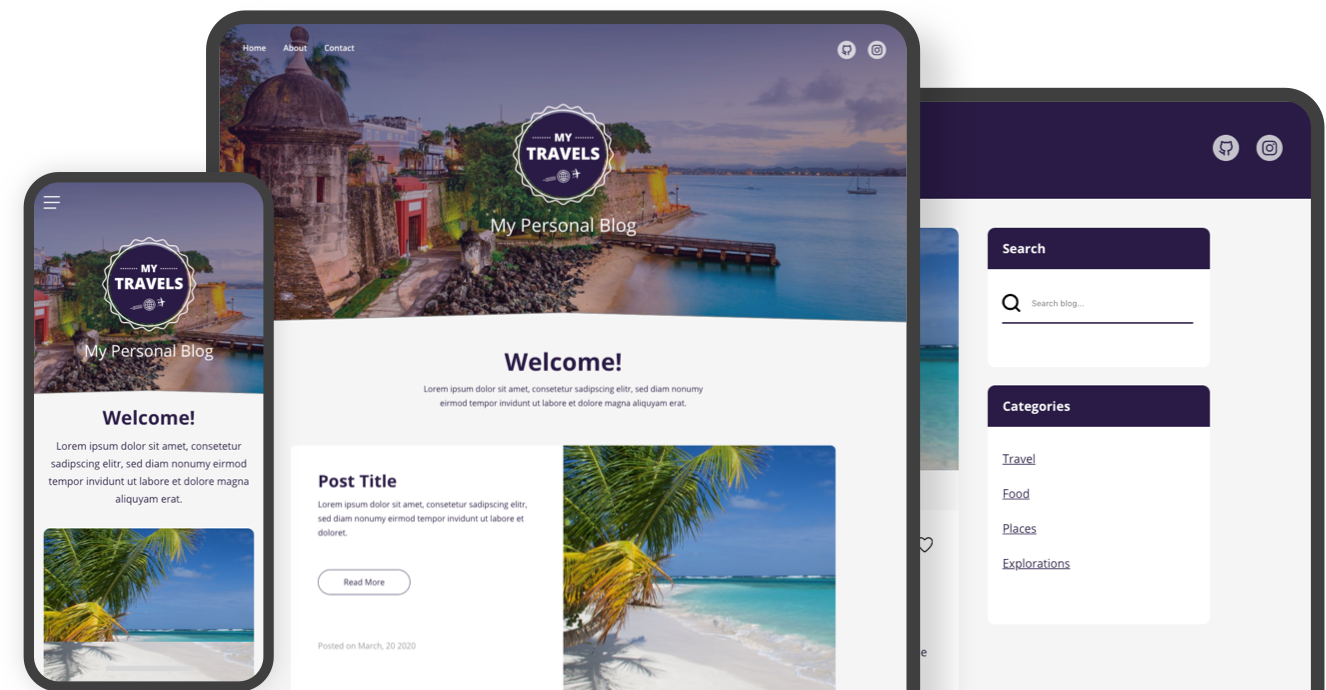
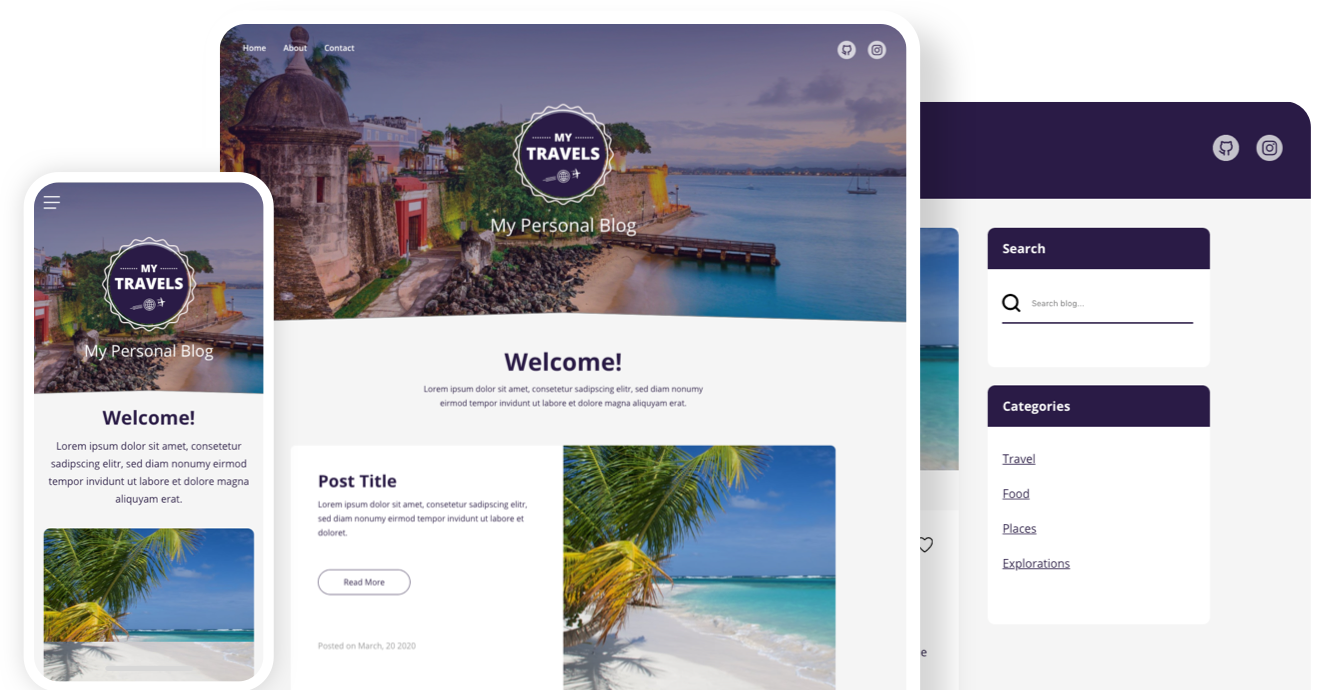
Made minor css updates

Changed region(s): [[0.0, 0.0, 1.0, 1.0]]

diff --git a/src/Pages/Home.js b/src/Pages/Home.js
@@ -4,7 +4,6 @@ import CardRight from '../Components/CardRight';
 import CardLeft from '../Components/CardLeft';
 import Button from '../Components/Button';
 import CardFullWidth from '../Components/CardFullWidth';
-import Footer from '../Components/Footer';
 import Intro from '../Components/Intro';
 import { Link } from 'react-router-dom';
 
@@ -13,12 +12,13 @@ class Home extends Component {
         return (
             <div>
        <Intro
-            introH1="Hey there! I’m Eric Vazquez"
-            introP="I design & develop modern web based user interfaces"
+            introH1="Hey there! I’m Eric"
+            introP="I'm a UI Designer and Front End Developer interested in creating and developing functional web user experiences for a diverse range of people."
        >
            <Link to="/about"><Button value="About Me" className="btn-large-blue animated fadeInUp" /></Link>
        </Intro>
         <MainContainer>
+
                 <CardLeft
                     imageUri="./images/react-app-slide-views.png"
                     alt="React app"
@@ -38,6 +38,17 @@ class Home extends Component {
                     descriptor2="Repository: Abstract"
                     >
                 </CardRight>
+
+                <CardFullWidth
+                    imageUri="./images/personal-blog.png"
+                    alt="React app"
+                    cardHeader="Responsive Blog Website"
+                    descriptor1="UI, Logo Design: Adobe XD"
+                    descriptor2="Development: HTML5, CSS3, JavaScript"
+                >
+                <Button value="Design" className="btn-medium-white"/>
+                <Button value="Code" className="btn-medium-white"/>
+                </CardFullWidth>
 
                 <CardLeft
                     imageUri="./images/restaurant-reviews-app.png"
@@ -60,17 +71,6 @@ class Home extends Component {
                 <Button value="Design" className="btn-medium-blue"/>
                 <Button value="Code" className="btn-medium-blue"/>
                 </CardRight>
-
-                <CardFullWidth
-                    imageUri="./images/personal-blog.png"
-                    alt="React app"
-                    cardHeader="Responsive Blog Website"
-                    descriptor1="UI, Logo Design: Adobe XD"
-                    descriptor2="Development: HTML5, CSS3, JavaScript"
-                >
-                <Button value="Design" className="btn-medium-blue"/>
-                <Button value="Code" className="btn-medium-blue"/>
-                </CardFullWidth>
 
         </MainContainer>
 

diff --git a/src/Styles/buttons.scss b/src/Styles/buttons.scss
@@ -1,15 +1,17 @@
+/* Buttons - Blue */
+
 .btn-large-blue {
     background: transparent;
     padding: 15px 40px;
-    border: solid 1px #355ABB;
+    border: solid 1px #1B0CA5;
     border-radius: 500px;
-    color: #355ABB;
+    color: #1B0CA5;
     font-size: 110%;
     transition: all .2s ease-in-out;
 }
 
 .btn-medium-blue:hover {
-    background: #355ABB;
+    background: #1B0CA5;
     color: white;
     cursor: pointer;
 }
@@ -18,23 +20,59 @@
     background: transparent;
     margin-right: 20px;
     padding: 10px 25px;
-    border: solid 1px #355ABB;
+    border: solid 1px #1B0CA5;
     border-radius: 500px;
-    color: #355ABB;
+    color: #1B0CA5;
     font-size: 95%;
     transition: all .2s ease-in-out;
 }
 
 .btn-large-blue:hover {
-    background: #355ABB;
+    background: #1B0CA5;
     color: white;
     cursor: pointer;
 }
 
+/* Buttons - White */
+
+.btn-large-white {
+    background: transparent;
+    padding: 15px 40px;
+    border: solid 1px #1B0CA5;
+    border-radius: 500px;
+    color: #1B0CA5;
+    font-size: 110%;
+    transition: all .2s ease-in-out;
+}
+
+.btn-medium-white:hover {
+    background: white;;
+    color:#1B0CA5;
+    cursor: pointer;
+}
+
+.btn-medium-white {
+    background: transparent;
+    margin-right: 20px;
+    padding: 10px 25px;
+    border: solid 1px white;
+    border-radius: 500px;
+    color: white;
+    font-size: 95%;
+    transition: all .2s ease-in-out;
+}
+
+.btn-large-white:hover {
+    background: white;
+    color: #1B0CA5;
+    cursor: pointer;
+}
+
+
 @media screen and (max-width: 750px) {
     .btn-large-blue {
         padding: 12px 25px;
-        color: #355ABB;
+        color: #1B0CA5;
         font-size: 100%;
     }
     

diff --git a/src/Styles/Header.scss b/src/Styles/Header.scss
@@ -1,17 +1,16 @@
 header {
- background: white;
+ background: #FBFCFF;
  position: relative;
  padding: 10px 50px 10px 0;
 }
 header .logo {
-   top:20px;
-   margin-left:3%;
+   margin: 10px 0 0 3%;
    width: 80px;
    transition: all .2s ease-in-out;
 }
 .home-intro {
     position: relative;
-    background: url('../../public/images/header-bottom.svg');
+    background: url('../../public/images/header-bottom-1.svg');
     background-position: bottom center;
     background-size: cover;
     max-width: 100%;
@@ -28,9 +27,10 @@ header .logo {
    }
 
 .home-intro section article p {
-       font-size: 130%;
-       margin: 30px 0 60px;
-       line-height: 150%;
+    max-width: 700px;
+    font-size: 110%;
+    margin: 30px auto 40px auto;
+    line-height: 190%;
 
    }
 @media screen and (min-width: 751px) {
@@ -44,7 +44,7 @@ header .logo {
         text-align: center;
     }
     .home-intro {
-        height: 250px;
+        height: 320px;
         transition: all .2s ease;
     }
     .logo {

diff --git a/src/Components/Header/Nav.js b/src/Components/Header/Nav.js
@@ -1,6 +1,7 @@
 import React, { Component } from 'react';
 import { Link } from 'react-router-dom';
 
+
 class Nav extends Component {
     render() {
         return (
@@ -8,16 +9,14 @@ class Nav extends Component {
                 <nav>
                     <ul>
                         <Link to="/">
-                        <li><a href="#">Home</a></li>
+                        <li><a>Home</a></li>
                         </Link>
                         <Link to="/about">
-                        <li><a href="#">About</a></li>
+                        <li><a>About</a></li>
                         </Link>
-                        <Link to="mailto:ericvazquez032@gmail.com">
-                        <li><a href="#">Contact</a></li>
-                        </Link>
-                        
+                        <li><a href={`mailto:ericvazquez032@gmail.com`} target="new">Contact</a></li> 
                     </ul>
+                    
                 </nav>
             </div>
         )

diff --git a/src/Styles/cards.scss b/src/Styles/cards.scss
@@ -1,7 +1,7 @@
 .row {
     display: grid;
     grid-template-columns: 50% 1fr;
-    background-color: white;
+    background-color:#FBFCFF;
     margin-bottom: 3%;
     border-radius: 20px;
     align-items: center;
@@ -10,7 +10,8 @@
 .row.fw {
     display: grid;
     grid-template-columns: 1fr;
-    background-color: white;
+    background-color: #1b0ca5;
+    background-image: linear-gradient(145deg, #1b0ca5 0%, #355abb 39%, #7d9aea 100%);
     margin-bottom: 3%;
     border-radius: 20px;
     align-items: center;
@@ -45,10 +46,11 @@
     text-align: center;
 }
 .card-text-block h2 {
-    font-size: 170%;
+    font-size: 230%;
     line-height: 120%;
     text-transform: uppercase;
     margin-bottom: 20px;
+    color: #1B0CA5;
 }
 
 .card-text-block p {
@@ -58,6 +60,10 @@
 .card-text-block.fwt p {
     line-height: 200%;
     margin-bottom: 30px;
+    color: white;
+}
+.card-text-block.fwt h2 {
+    color: white;
 }
 .card-text-block p span {
  display: block;

diff --git a/src/index.css b/src/index.css
@@ -73,21 +73,25 @@ a img {
 
 h1 {
   margin: 0;
-  font-size: 300%;
+  font-size: 400%;
   line-height: 130%;
   font-weight: 700;
+  color: #1B0CA5;
+
 }
 
 h2 {
   margin: 0;
   font-size: 210%;
   font-weight: 700;
+  color: #1B0CA5;
 }
 
 h3 {
   margin: 0;
   font-size: 130%;
   font-weight: 700;
+  
 }
 
 h4 {
@@ -108,7 +112,7 @@ h4 {
 @media screen and (max-width: 750px) {
   h1 {
     margin: 0;
-    font-size: 120%;
+    font-size: 160%;
     line-height: 130%;
     font-weight: 700;
   }

diff --git a/src/Styles/footer.scss b/src/Styles/footer.scss
@@ -1,5 +1,5 @@
 footer {
-    background: white;
+    background: #FBFCFF;
     text-align: center;
 }
 footer ul {
@@ -32,6 +32,9 @@ footer nav li {
     font-weight: 600;
     font-size: 95%;
     display: inline-block;
+}
+footer nav li a {
+    color: #1B0CA5;
 }
 
 @media screen and (max-width: 750px) {

diff --git a/src/Styles/nav.scss b/src/Styles/nav.scss
@@ -16,6 +16,10 @@ header nav li {
     font-size: 95%;
     display: inline-block;
     margin-left: 50px;
+    color: #1B0CA5;
+}
+header nav li a {
+    color: #1B0CA5;
 }
 
 @media screen and (max-width: 750px) {

diff --git a/src/Pages/About.js b/src/Pages/About.js
@@ -1,6 +1,5 @@
 import React, { Component } from 'react'
 import MainContainer from '../Components/MainContainer';
-import Intro from '../Components/Intro';
 
 class About extends Component {
     render() {
